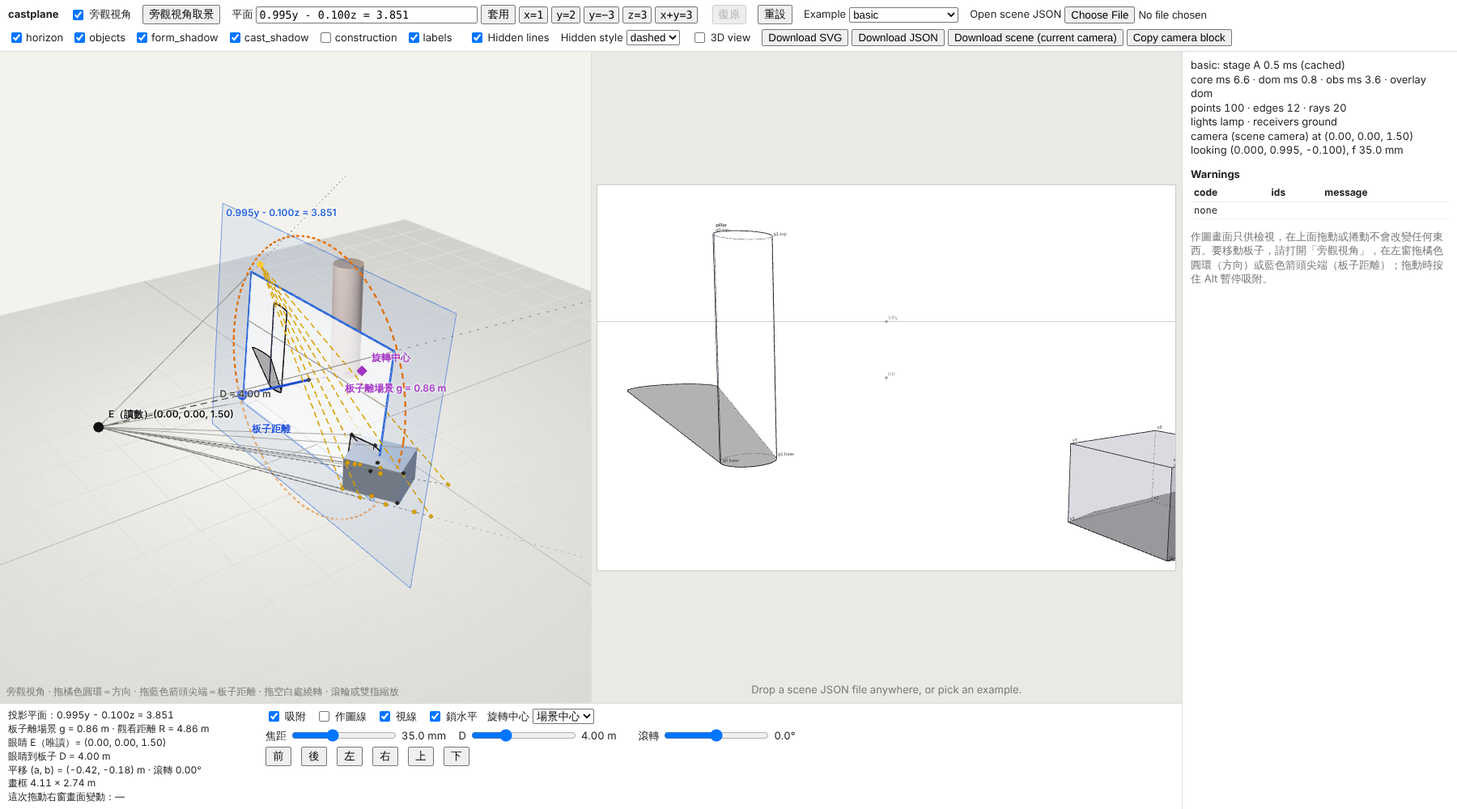
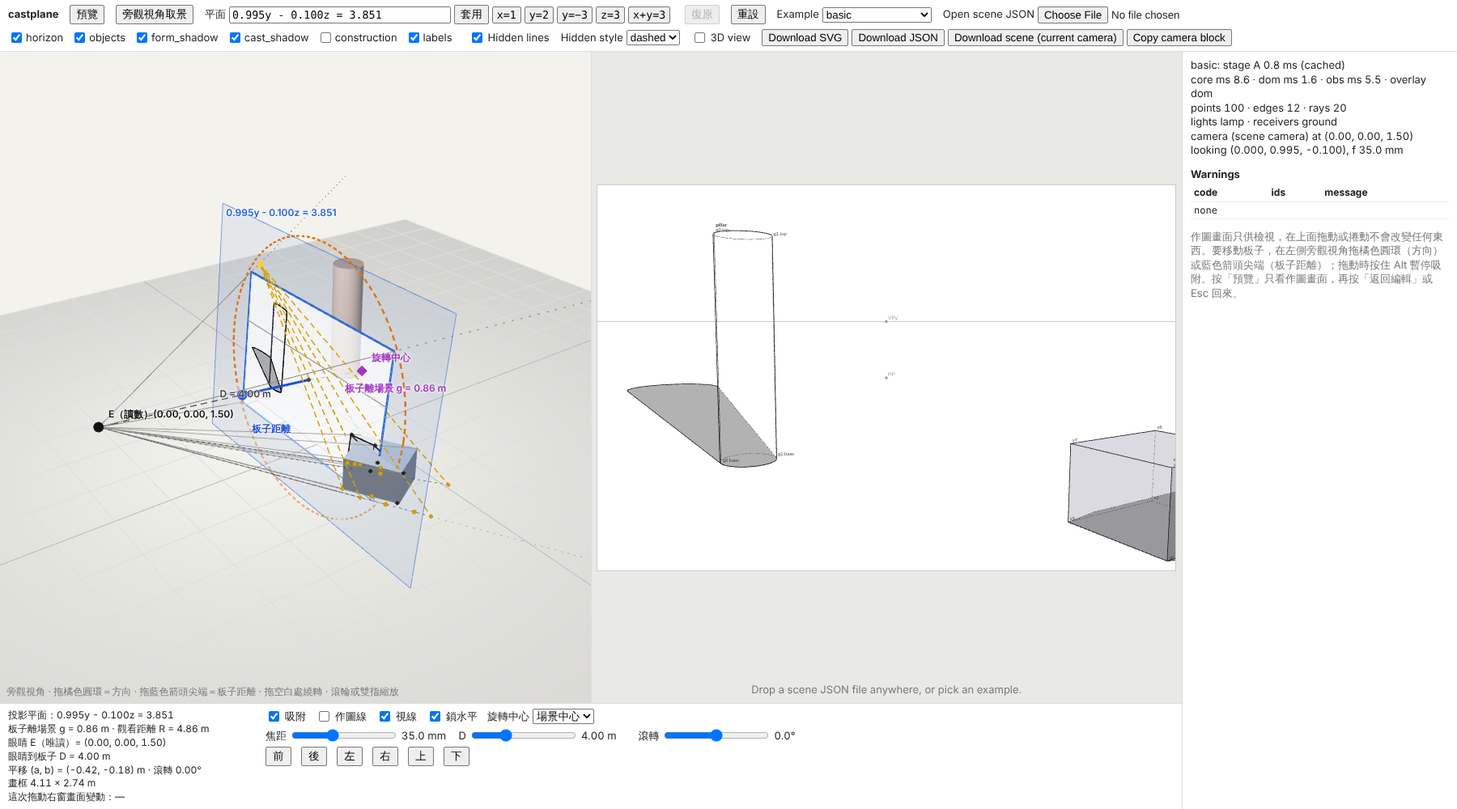
Web: observer pane shown by default; 預覽 button replaces the 旁觀視角 checkbox (D80)
The page always opens in the edit view (observer pane left of the drawing,
stacked on narrow pages). The toolbar toggle 預覽 hides the observer pane,
旁觀視角取景 and obs ms so the drawing takes the full width (the old
switch-off state; drawing and downloads unchanged); 返回編輯 or Esc goes
back. The observer state is no longer stored in localStorage.

Spec v0.2/v0.1, contract notes (§5.6, §5.7), D80, usage docs, smoke
checks and screenshots updated.

Claude-Session: https://claude.ai/code/session_01Y5LMS3wqmpLoV9XZ4UvnBE

diff --git a/web/src/main.ts b/web/src/main.ts
@@ -425,7 +425,6 @@ resize.observe(viewport);
 resize.observe(ui.observerPane);
 
 // ---------------------------------------------------------------------------- observer (M9, contract §5.6)
-const OBSERVER_KEY = "castplane.observer";
 
 /** Update the observer from the drawing camera's record and document (§5.6.2, §5.6.5): board, drawing on the frame
  * (checked layers), vertex rays; frame it when a framing is pending and no drag is running (§5.6.4); then draw it.
@@ -467,14 +466,13 @@ function request_observer_render(): void {
   });
 }
 
+/** Show or hide the observer pane (D80: shown at page start; hidden only while "預覽" is pressed, which is the M9
+ * switch-off state: the drawing pane takes the full width and the outputs are unchanged). */
 function set_observer(on: boolean): void {
   state.obs.on = on;
-  ui.observerOn.checked = on;
-  try {
-    localStorage.setItem(OBSERVER_KEY, on ? "1" : "0");
-  } catch {
-    // storage unavailable: the switch still works for this page
-  }
+  ui.preview.setAttribute("aria-pressed", on ? "false" : "true");
+  ui.preview.textContent = on ? "預覽" : "返回編輯";
+  ui.preview.title = on ? "只看作圖畫面（Esc 返回）" : "回到旁觀視角";
   ui.observerPane.hidden = !on;
   ui.observerControls.hidden = !on;
   ui.panes.classList.toggle("observer-on", on);
@@ -488,7 +486,15 @@ function set_observer(on: boolean): void {
   request_render(); // the resting frame: the observer is built from it (and the drawing pane re-letterboxed)
 }
 
-ui.observerOn.addEventListener("change", () => set_observer(ui.observerOn.checked));
+/** "預覽" (D80): the drawing pane alone; pressed again ("返回編輯") or Esc returns to the edit view. */
+function set_preview(preview: boolean): void {
+  if (preview === !state.obs.on) return;
+  set_observer(!preview);
+}
+ui.preview.addEventListener("click", () => set_preview(state.obs.on));
+window.addEventListener("keydown", (ev) => {
+  if (ev.key === "Escape" && !state.obs.on) set_preview(false);
+});
 ui.observerFrame.addEventListener("click", () => {
   state.obs.needs_framing = true;
   observer_refresh(true);
@@ -627,10 +633,13 @@ function frame(): void {
     svg: svg_blob(state.doc, state.layersChecked, state.sceneName, hidden_style()).text,
     json: json_blob(state.doc, state.sceneName).text,
   },
-  /** M9: switch the observer on / off as the "旁觀視角" checkbox does. */
+  /** D80: press / release "預覽" (the observer pane hidden / shown) as a user would. */
+  set_preview: (preview: boolean) => {
+    if (preview === state.obs.on) ui.preview.click();
+  },
+  /** M9: show / hide the observer pane (`set_preview(!on)`). */
   set_observer: (on: boolean) => {
-    ui.observerOn.checked = on;
-    ui.observerOn.dispatchEvent(new Event("change"));
+    if (on !== state.obs.on) ui.preview.click();
   },
   /** M9: the observer's state (`null` before it was first switched on). */
   get observer() {
@@ -679,13 +688,8 @@ function frame(): void {
   },
 };
 
-let stored_on = false;
-try {
-  stored_on = localStorage.getItem(OBSERVER_KEY) === "1";
-} catch {
-  stored_on = false;
-}
-if (stored_on) set_observer(true);
+// D80: the page always opens in the edit view (observer pane shown); the old "castplane.observer" storage key is ignored
+set_preview(TOGGLES.preview);
 layout();
 const first = EXAMPLES.find((e) => e.name === "basic") ?? EXAMPLES[0];
 if (first !== undefined) {

diff --git a/web/test/plane.test.ts b/web/test/plane.test.ts
@@ -528,3 +528,19 @@ test("the drawing pane is view-only: no pointer, wheel, touch or contextmenu lis
   assert.ok(!/touch-action|cursor/.test(stageRule), stageRule);
   assert.match(css, /^#observer \{[^}]*touch-action: none;/m);
 });
+
+test("the page opens in the edit view: no observer checkbox, a 預覽 toggle button, nothing remembered in storage (D80)", () => {
+  assert.equal(initial_toggles(LAYER_IDS).preview, false, "not previewing at start: the observer pane is shown");
+  const html = readFileSync(resolve(ROOT, "web", "index.html"), "utf-8");
+  assert.ok(!html.includes('id="observer-on"'), "the 旁觀視角 checkbox is gone");
+  assert.match(html, /<button id="preview" type="button" aria-pressed="false"[^>]*>預覽<\/button>/);
+  assert.ok(!/<span class="group" id="observer-controls" hidden>/.test(html), "旁觀視角取景 is shown with the pane");
+  const src = readFileSync(resolve(ROOT, "web", "src", "main.ts"), "utf-8");
+  assert.ok(!/localStorage|OBSERVER_KEY|castplane\.observer"/.test(src.replace(/\/\/.*$/gm, "")), "no stored observer state");
+  assert.match(src, /^set_preview\(TOGGLES\.preview\);$/m, "the start state comes from initial_toggles");
+  // the button toggles; its label and aria-pressed follow; Esc leaves the preview
+  assert.match(src, /ui\.preview\.addEventListener\("click", \(\) => set_preview\(state\.obs\.on\)\)/);
+  assert.match(src, /ui\.preview\.setAttribute\("aria-pressed", on \? "false" : "true"\)/);
+  assert.match(src, /ui\.preview\.textContent = on \? "預覽" : "返回編輯"/);
+  assert.match(src, /ev\.key === "Escape" && !state\.obs\.on\) set_preview\(false\)/);
+});

diff --git a/web/src/toggles.ts b/web/src/toggles.ts
@@ -4,7 +4,8 @@
  * {@link initial_toggles} when the page opens and keep whatever the user sets across scene and example loads; a loaded
  * scene's `output.layers` and `output.hidden_lines` do not drive them (`main.ts` sets the checkboxes once, from
  * {@link initial_toggles}, and never in its scene load). "Download SVG" writes the checked layers; "Download JSON" and
- * "Download scene" follow the "Hidden lines" checkbox.
+ * "Download scene" follow the "Hidden lines" checkbox. The page also opens in the edit view: "預覽" released, the
+ * observer pane shown (D80), whatever an earlier visit chose.
  */
 
 /** The layer that starts unchecked (and its "作圖線" mirror). */
@@ -18,9 +19,12 @@ export interface Toggles {
   hidden_lines: boolean;
   /** "3D view": with it off the three.js canvas is hidden and not rendered. */
   view3d: boolean;
+  /** "預覽" (D80): pressed hides the observer pane and the drawing pane takes the full width. */
+  preview: boolean;
 }
 
-/** The toggles at page start: every layer but `construction` checked, hidden lines on, the 3D view off. */
+/** The toggles at page start: every layer but `construction` checked, hidden lines on, the 3D view off, not previewing
+ * (the observer pane shown). */
 export function initial_toggles(layer_ids: readonly string[]): Toggles {
-  return { layers: new Set(layer_ids.filter((id) => !LAYERS_OFF_AT_START.includes(id))), hidden_lines: true, view3d: false };
+  return { layers: new Set(layer_ids.filter((id) => !LAYERS_OFF_AT_START.includes(id))), hidden_lines: true, view3d: false, preview: false };
 }

diff --git a/web/index.html b/web/index.html
@@ -8,8 +8,8 @@
   <body>
     <header id="toolbar">
       <span class="brand">castplane</span>
-      <label class="group"><input id="observer-on" type="checkbox" /> 旁觀視角</label>
-      <span class="group" id="observer-controls" hidden>
+      <button id="preview" type="button" aria-pressed="false" title="只看作圖畫面（Esc 返回）">預覽</button>
+      <span class="group" id="observer-controls">
         <button id="observer-frame" type="button">旁觀視角取景</button>
       </span>
       <span class="group" id="equation-group">
@@ -89,7 +89,7 @@
         <div id="error" hidden></div>
         <h2>Warnings</h2>
         <table id="warnings"><thead><tr><th>code</th><th>ids</th><th>message</th></tr></thead><tbody></tbody></table>
-        <p class="help">作圖畫面只供檢視，在上面拖動或捲動不會改變任何東西。要移動板子，請打開「旁觀視角」，在左窗拖橘色圓環（方向）或藍色箭頭尖端（板子距離）；拖動時按住 Alt 暫停吸附。</p>
+        <p class="help">作圖畫面只供檢視，在上面拖動或捲動不會改變任何東西。要移動板子，在左側旁觀視角拖橘色圓環（方向）或藍色箭頭尖端（板子距離）；拖動時按住 Alt 暫停吸附。按「預覽」只看作圖畫面，再按「返回編輯」或 Esc 回來。</p>
       </aside>
     </main>
     <script type="module" src="./src/main.ts"></script>

diff --git a/web/src/ui.ts b/web/src/ui.ts
@@ -55,9 +55,9 @@ export interface Controls {
   statusLine: HTMLDivElement;
   errorPanel: HTMLDivElement;
   warningsBody: HTMLTableSectionElement;
-  /** M9 (contract §5.6.3): the observer switch, its pane and its controls. */
+  /** M9 (contract §5.6.3): the observer pane and its controls; the "預覽" button hides them (D80). */
   panes: HTMLDivElement;
-  observerOn: HTMLInputElement;
+  preview: HTMLButtonElement;
   observerControls: HTMLSpanElement;
   observerFrame: HTMLButtonElement;
   observerRays: HTMLInputElement;
@@ -100,7 +100,7 @@ export function controls(): Controls {
     errorPanel: $<HTMLDivElement>("error"),
     warningsBody: $<HTMLTableElement>("warnings").tBodies[0]!,
     panes: $<HTMLDivElement>("panes"),
-    observerOn: $<HTMLInputElement>("observer-on"),
+    preview: $<HTMLButtonElement>("preview"),
     observerControls: $<HTMLSpanElement>("observer-controls"),
     observerFrame: $<HTMLButtonElement>("observer-frame"),
     observerRays: $<HTMLInputElement>("observer-rays"),

diff --git a/web/src/style.css b/web/src/style.css
@@ -35,6 +35,8 @@ body { display: flex; flex-direction: column; }
 /* M9 observer pane (contract §5.6.3): left of the drawing pane, equal width; stacked (observer on top) below 880 px */
 #observer { flex: 1; position: relative; min-width: 0; min-height: 0; overflow: hidden; background: #f3f2ec; touch-action: none; border-right: 1px solid #ddd; }
 #observer[hidden] { display: none; }
+/* D80: "預覽" pressed (the observer pane hidden) */
+#preview[aria-pressed="true"] { background: #2563eb; border-color: #1d4ed8; color: #fff; }
 #observer canvas { position: absolute; inset: 0; width: 100%; height: 100%; display: block; cursor: grab; }
 #observer.on-handle canvas { cursor: pointer; }
 /* label offsets from their anchors and the overlap rule live in observer.ts (`layout_labels`) */

diff --git a/web/README.md b/web/README.md
@@ -23,7 +23,7 @@ Phase 2 (contract §5.4.10, the M4–M6 format): `wall_and_ground` with hidden l
 ![mesh demo](../docs/images/web_ui_mesh_demo.png)
 ![two lights](../docs/images/web_ui_two_lights.png)
 
-M9 (contract §5.6): the observer view, switched on with *旁觀視角*:
+M9 (contract §5.6): the observer view, shown by default (hidden by the *預覽* button, D80):
 
 ![observer view](../docs/images/web_ui_observer.png)
 
@@ -68,11 +68,12 @@ drag):
     natively; `touch-action` is the browser default on `#stage` and `none` only on `#observer`) and does not suppress
     the context menu. A file drop still works anywhere on the page. The former mappings (left drag = ring, wheel or
     pinch = arrow, right drag / Shift drag / two-finger move = pan) are removed.
-  - Observer pane (left, with *旁觀視角*) is where the board is moved: drag the orange dashed ring to orbit (lock-horizontal by default, free roll
+  - Observer pane (left, shown by default) is where the board is moved: drag the orange dashed ring to orbit (lock-horizontal by default, free roll
     with *鎖水平* off), and drag the blue arrow's tip (*板子距離*) to move the board along `f`. Hit radius: 14 px
     for a mouse, 26 px for touch, 0.8× for the ring; the tip wins. The black eye is never a handle. Anywhere else
-    the drag orbits the observer camera; the wheel or a pinch zooms the observer camera. With the switch off no drag or
-    wheel changes the camera: use the sliders, views, equation field, undo and 重設.
+    the drag orbits the observer camera; the wheel or a pinch zooms the observer camera. While previewing (*預覽*)
+    no drag or wheel changes the camera: use the sliders, views, equation field, undo and 重設, or go back with
+    *返回編輯* (or Esc).
   - *吸附* (default on; Alt suspends it): within 5° of an axis the board snaps to it exactly, and an axis-parallel
     board's plane coordinate snaps to 0.1 m while the arrow is dragged.
   - Sliders: focal length (logarithmic, 8–400 mm), `D` (0.5–12 m, the board stays and the eye moves), roll (±180°
@@ -121,10 +122,13 @@ drag):
   `message` of the current document.
 
 - **Observer view** (M9, contract §5.6; `src/observer.ts` pure and unit-tested, `src/observer3d.ts` the three.js
-  pane). The toolbar switch *旁觀視角* (off by default, remembered per browser in `localStorage`) opens a second
-  three.js view left of the drawing pane, at equal width; below 880 px of page width the two panes stack, the
-  observer on top. With the switch off there is only the drawing pane: no second WebGL context is created and nothing is
-  computed for it. The observer shows, from outside, the drawing camera's eye **E** (read-only, with its coordinates),
+  pane). The page always opens in the edit view (D80): a second
+  three.js view is shown left of the drawing pane, at equal width; below 880 px of page width the two panes stack, the
+  observer on top. The toolbar toggle *預覽* (`aria-pressed`) hides the observer pane, its toolbar control *旁觀視角取景*
+  and `obs ms`, and the drawing pane takes the full width: the old "switch off" state, with nothing computed for the
+  observer. While previewing the button reads *返回編輯*; clicking it again or pressing Esc returns to the edit view. The
+  choice is not remembered (`localStorage["castplane.observer"]` is neither read nor written), and the board cannot be
+  dragged while previewing (the drawing pane is view-only, D79). The observer shows, from outside, the drawing camera's eye **E** (read-only, with its coordinates),
   the board (the picture plane at distance `D` in front of the eye: 4 m, or the `picture_plane` distance of the
   scene's camera clamped into 0.5–12 m), the frame on it (the canvas rectangle unprojected with the core's
   `unproject_to_plane`) with the current drawing laid on it 0.012 m towards the eye, the frustum (dotted on to 1.9×),
@@ -140,7 +144,7 @@ drag):
   would fall outside the pane's inner 90 %, as it would in the portrait side-by-side pane); it also frames after a
   scene load, 重設, 復原, a view, an applied equation and a pivot change, never during a drag. In M10 the pane also
   shows the plane-mode handles (the orange ring and the blue arrow, above). The observer draws the receivers see-through, so a frame below
-  the ground stays visible. The status line shows `obs ms` (the observer's own cost per frame) while the switch is on.
+  the ground stays visible. The status line shows `obs ms` (the observer's own cost per frame) in the edit view.
   A scene's own camera (any form) is rendered as it is until the board is first moved (so the document, its warnings
   and the downloads are the CLI's); from then on the rig's `picture_plane` block, with the same picture.
 
@@ -212,7 +216,7 @@ number); its resting DOM frames took 100–169 ms of `innerHTML`.
 ### M9: the observer view on
 
 Same script and container (headless Chromium 141.0.7390.37, SwiftShader): a 30-step drag of the drawing camera per
-scene with the observer switched on. `obs ms` is the observer's update (board, drawing on the frame, vertex rays and
+scene in the edit view (observer shown). `obs ms` is the observer's update (board, drawing on the frame, vertex rays and
 the `renderer.render` call, which returns before the GPU work completes); `total` is `core ms + dom ms + obs ms` of
 the frame. Minimum / median / maximum over the drag frames of one run:
 
@@ -226,7 +230,7 @@ the frame. Minimum / median / maximum over the drag frames of one run:
 | benchmark_100 (recorded, not gated) | 54.3 / 158.8 / 238.1 | 166.8 / 286.2 / 486.2 |
 
 The five examples stay far below the 100 ms frame of contract §5.6.9. `benchmark_100.json` draws ≈ 30 k segments on
-the frame; with the observer off its drag frames are unchanged (table above).
+the frame; in the preview its drag frames are unchanged (table above).
 
 ## Smoke check
 
@@ -253,11 +257,14 @@ The script needs a Playwright installed outside the repository; it is not a depe
   3D view has the ground plane with its grid and the wall as a plate with an outline; `mesh_demo` shows the house
   mesh and the tank; `two_lights` has one helper per light, the per-light construction blocks and umbra pieces at
   rest, none during a drag and again after it. With `--shots DIR` it saves `DIR/web_ui_<name>.png` for these three.
-- M9 (contract §5.6.9): for the five phase-1 examples and the optional scene file the observer is switched on and
-  off: the writer's SVG text, the overlay markup, the SVG / JSON download texts and the camera must be identical with
-  the switch on and off; a 30-step drag of the drawing camera with the switch on records `obs ms` and checks
+- D80: the page opens in the edit view (observer pane shown, no 旁觀視角 checkbox, *預覽* not pressed); *預覽* hides
+  the pane and widens the drawing pane with the drawing and the downloads unchanged, and a second click (*返回編輯*)
+  or Esc returns; a reload opens in the edit view even with the old `castplane.observer` key set to off.
+- M9 (contract §5.6.9): for the five phase-1 examples and the optional scene file the observer pane is hidden and
+  shown (*預覽*): the writer's SVG text, the overlay markup, the SVG / JSON download texts and the camera must be
+  identical either way; a 30-step drag of the drawing camera with the pane shown records `obs ms` and checks
   `core + dom + obs < 100 ms` per frame on the five examples, and that the observer follows the drawing camera; an
-  observer drag and wheel move only the observer; switching off hides the pane, its controls and `obs ms` and restores
+  observer drag and wheel move only the observer; *預覽* hides the pane, its controls and `obs ms` and restores
   the drawing pane's size; a `picture_plane` scene camera loads with the board `y = 2.00`, `D = 4.00 m`; below 880 px
   the panes stack (observer on top), above they sit side by side at equal width; after the large scene's drag the
   `<img>` overlay is not displayed at rest. Review fixes: after each load `E` and the frame corners are inside the
@@ -265,7 +272,7 @@ The script needs a Playwright installed outside the repository; it is not a depe
   camera's document (the expected file's warnings, `camera.picture_plane`) until a drag, the rig's `picture_plane`
   block after it (M10), and the scene's block again after 重設; a frame below the ground is drawn (its bottom edge's
   pixel colour). With `--shots DIR` it also saves `DIR/web_ui_observer.png`.
-- M10 (contract §5.7.13, plane mode, on `basic` with the observer on):
+- M10 (contract §5.7.13, plane mode, on `basic` in the edit view):
   - the ring drag changes `f` and keeps `g`, `D`, `|E − P|`;
   - the arrow tip wins the hit test, and its drag changes `g` only (the eye moves along `f`);
   - the hit test never returns the eye, and a drag on it orbits the observer only;
@@ -279,7 +286,7 @@ The script needs a Playwright installed outside the repository; it is not a depe
   - `x==1` turns the field red and keeps the plane, and the quick button `x=1` applies;
   - undo and 重設 restore `f`, `g`, `up`, the focal length and the sliders;
   - an object click sets the pivot (label `旋轉中心：<id>`);
-  - the drawing is identical with the observer on and off for an edited camera;
+  - the drawing is identical with the observer pane shown and hidden (*預覽*) for an edited camera;
   - Download scene writes the `picture_plane` form and reloads to the same SVG;
   - 900 random rig states render finite numbers;
   - review fixes: a drag held across a scene load leaves

diff --git a/docs/DECISIONS.md b/docs/DECISIONS.md
@@ -498,3 +498,17 @@ v1 的決定：保留目標值不改，`benchmarks/README.md` 記錄實測數字
   3. 平移 (a, b) 不再能手動編輯：只來自載入規則，並在點選物體與一鍵視圖時歸零，其餘操作保留它。D78 對滾輪與焦距、平移與旋轉中心、滾轉與自由滾轉的區別，以及「平移以滾轉前的基底記錄」仍然有效。
   4. 工具列預設：頁面開啟時 horizon、objects、form_shadow、cast_shadow、labels 與 Hidden lines 勾選；construction（右窗下方的「作圖線」勾選框與它同步）與 3D view 不勾選，3D 畫布從第一格起隱藏且不繪製。這些是頁面層級的狀態，載入場景或範例後保持使用者設定的值，不再取場景的 `output.layers`、`output.hidden_lines`（場景檔欄位本身不變，命令列照舊使用）。Hidden style 選單只在 Hidden lines 勾選時可用。「Download SVG」用目前勾選的圖層，「Download JSON」與「Download scene」用目前的 Hidden lines 狀態。旁觀視角開關預設關閉，不變。
 - **理由**：操作板子只留一個地方（左窗與工具列），右窗就成為穩定的結果畫面，看圖、捲頁、點右鍵都不會誤改視角；觸控裝置上右窗也不再搶走捲動。預設直接顯示完成的線稿（物體、地平線、陰影、標籤，被遮住的線依 Hidden style 畫出，預設為虛線），不被作圖線蓋滿；要看作圖過程再勾選 construction。3D view 預設關閉讓畫面乾淨，也省下一個 WebGL 畫面的算圖。勾選狀態屬於使用者的介面偏好，不屬於場景，所以載入另一個場景不該把它改回去。代價：旁觀視角關閉時沒有拖曳可以改相機（只剩滑桿、一鍵視圖與方程式），需要拖曳圓環與箭頭時打開旁觀視角；平移因此沒有手動入口，只能靠載入帶偏移的相機取得。
+- **後續**：第 4 點最後一句「旁觀視角開關預設關閉，不變」，以及本條「代價」中「旁觀視角關閉時沒有拖曳」的前提，已由 D80 取代（旁觀視角預設顯示，開關改為「預覽」按鈕）；其餘仍然有效。
+
+## D80 旁觀視角預設顯示，「旁觀視角」開關改為工具列的「預覽」按鈕（修訂 D79 與 M9 的開關決定；合約 §5.6.0、§5.6.3、§5.6.4 與 §5.6 實作註記）
+
+- **規格**：規格 v0.2 §2.2（編輯畫面與預覽）、§2.1（旁觀視角一列）、§5.9、§7.2 的 M9 一列；修訂 D79 第 4 點最後一句「旁觀視角開關預設關閉，不變」，以及 M9 在合約 §5.6.3、§5.6.4 定下的「開關預設關閉、每個瀏覽器用 `localStorage["castplane.observer"]` 記住」。M9 的開關沒有獨立的 D 編號，它的條文在合約 §5.6。
+- **問題**：D79 讓右窗唯讀，板子只能在左窗（旁觀視角）操作，但旁觀視角是一個預設關閉、還會被瀏覽器記住的勾選框。結果是頁面剛開啟時什麼都拖不動，要先找到並打開一個開關；而關閉的狀態又讓整個頁面沒有任何拖曳入口。「看完成的作圖」其實是暫時的看一眼，不是把一個功能關掉。
+- **決定**：
+  1. 取消「旁觀視角」勾選框。頁面一律以**編輯畫面**開啟：旁觀視角窗格預設顯示，在作圖畫面左側（頁面寬度小於 880 px 時改為上下堆疊，旁觀視角在上），也就是原本開關打開時的版面。
+  2. 工具列新增切換鈕「預覽」（`aria-pressed`）。按下後旁觀視角窗格、它的工具列控制「旁觀視角取景」與狀態列的 `obs ms` 都隱藏，作圖畫面佔滿全寬；這就是原本「開關關閉」的狀態。預覽時按鈕顯示「返回編輯」，再按一次或按 Esc 回到編輯畫面（旁觀視角重新顯示）。
+  3. 預覽時不能拖曳板子（右窗唯讀，D79；把手在旁觀視角裡）；滑桿（焦距、D、滾轉）、六個一鍵視圖、方程式欄位、復原、重設照常可用。
+  4. M9 的「開關關閉＝M7 頁面」恆等式照舊成立，只是改名：預覽時的版面、算圖迴圈與輸出和 M7 頁面相同；同一台相機下，疊層 SVG 與下載的 SVG、JSON 在編輯畫面與預覽之間逐位元相同。
+  5. 不再記憶：頁面每次都從編輯畫面開始，舊的 `castplane.observer` 不讀也不寫（瀏覽器裡殘留的值直接忽略），預覽狀態也不存。
+  6. D79 的其餘部分（右窗唯讀、板子與旁觀相機只在左窗與工具列操作、平移只來自載入規則、工具列預設）不變。核心、文件位元組與一致性測試集都沒有變動。
+- **理由**：D79 之後，旁觀視角就是操作板子的地方，應該預設就在，而不是要使用者去打開的附加功能；「看完成的圖」是暫時的檢視動作，用一個「預覽／返回編輯」的按鈕表達，比一個關掉功能的勾選框貼近用途，而且只有一個控制，不會把頁面留在沒有拖曳入口的狀態。每次從編輯畫面開始，也避免「上次關掉了，這次打開什麼都拖不動」的困惑。預覽保留原本關閉時的畫面與輸出，所以 M9 的位元組恆等驗收和效能路徑（預覽時不做旁觀視角更新、不算 `obs ms`）都可以沿用。代價：頁面開啟就多一個 WebGL 畫面與每格的旁觀視角更新（M9 實測五個範例拖曳每格總計約 4–24 ms，在 100 ms 預算內）；想永遠只看作圖畫面的使用者每次開頁都要按一次「預覽」。

diff --git a/docs/ARCHITECTURE.md b/docs/ARCHITECTURE.md
@@ -5116,6 +5116,31 @@ The observer shows lights as in §5.4.10 (`scene3d`). Nothing in this table is w
   that `E` and the frame corners lie inside the pane after each load, that right and middle drags leave the observer
   still, the three v8 cases before a drag, after one and after "Reset camera", and that a frame below the ground is
   drawn (pixel colour on its bottom edge). Each smoke check fails on a build with its fix disabled.
+- **[decision, implementation] (M9, D80) The observer pane is shown by default; the 旁觀視角 switch is replaced by the
+  預覽 button.** Amends, by reference and with the existing text unchanged: §5.6.0 "Switch-off identity", the first two
+  bullets of §5.6.3 ("default **off**; persisted per viewer in `localStorage`"; "On: ... Off: ..."), the two sentences of
+  §5.6.4 that create the pane "on the first switch-on only" and store the switch state under
+  `localStorage["castplane.observer"]`, the last sentence of the §5.4 M10 / D79 note ("The M9 observer switch keeps its
+  default (off)"), and "The top bar holds the observer switch" in the §5.7 "Controls, readouts and notices" note.
+  (1) **Default.** The "旁觀視角" checkbox no longer exists. The page always opens in the **edit view**: the observer
+  pane is shown from the first frame, left of the drawing pane at equal width, and stacked on top of it below 880 px of
+  page width (the layout the old switch gave when on). The observer is where the board is manipulated (§5.7.9, D79),
+  so it is not an optional extra. (2) **The 預覽 button.** The top bar gets a toggle button "預覽" with `aria-pressed`
+  (`false` in the edit view). While previewing (`aria-pressed="true"`) the observer pane, its toolbar control
+  「旁觀視角取景」 and the `obs ms` status are hidden and the drawing pane takes the full width: this is exactly the old
+  "switch off" state, so no observer update runs (`obs_ms` is `null` in the frame records, as it was with the switch
+  off). The button then reads 「返回編輯」; clicking it again, or pressing Esc, returns to the edit view (observer
+  shown, `obs ms` back). The sliders (focal length, `D`, roll), the six views, the equation field and its quick buttons,
+  復原, 重設, lock-horizontal and the pivot selector work in both views. The board cannot be dragged while previewing,
+  because the drawing pane is view-only (D79, §5.7 note) and the handles live in the observer pane. (3) **Identity.**
+  The "switch-off identity" of §5.6.0 holds with "preview" in place of "switch off": the layout of a previewing page,
+  its render loop and its outputs are those of the §5.4.10 page (as the D79 note reads the identity: layout, render loop
+  and outputs, not input), and for the same drawing camera the SVG overlay markup, the downloaded SVG
+  and the downloaded JSON are byte-identical between the edit view and the preview (the §5.6.8 and §5.6.9 tests keep
+  their content, read with "edit view" for "switch on" and "preview" for "switch off"). (4) **Storage.** Whether the
+  observer is shown is no longer remembered: `localStorage["castplane.observer"]` is neither read nor written (a value
+  left by an earlier page is ignored), the preview state is not stored, and every page start is the edit view. No
+  document byte, warning code or conformance case changes (docs/DECISIONS.md D80).
 
 ### 5.7 M10 — plane mode, board-first (spec-v0.2 §1, §4, §5, §6, §7)
 
@@ -5640,3 +5665,7 @@ through the port's `resolve_picture_plane` and draws its readout camera through 
   check of the new row. (7) **D78** keeps its distinctions; its mapping "右窗左拖＝圓環、滾輪＝箭頭、右拖＝平移" is
   withdrawn (docs/DECISIONS.md D79 amends it by reference). §5.4.10's input mapping for the drawing pane was already
   superseded by §5.7.9, and now has no replacement on that pane.
+- **[decision, implementation] (M10, D80) Amendment to the D79 note above.** In (2), "With the observer switch off no
+  drag or wheel can change the camera" is read as "while previewing (§5.6, D80 note)"; the 旁觀視角 switch is gone and
+  the observer is shown by default, so the drag and wheel on the board are available in the edit view without any
+  switch. The rest of the D79 note stands.

diff --git a/CHANGELOG.md b/CHANGELOG.md
@@ -10,6 +10,7 @@
 - m10-web: the drawing camera is the board-first rig (`web/src/plane.ts` session + `rig.ts`): the observer pane gets the orange ring (orbit, 5° snapping, Alt suspends it) and the blue arrow (board distance g, 0.1 m grid) with hit radii 14 / 26 px and the eye never a handle; the right pane maps left drag to the ring, the wheel / pinch to the arrow (R, not focal), right / Shift / two-finger drags to pan; focal, D and roll sliders, pivot (scene centre or a clicked object), lock-horizontal, six views, the plane-equation field with quick buttons, 50-step undo, reset, readouts with the picture delta and notices; a scene's own camera is rendered until the board first moves, then the rig's `picture_plane` block (also what Download scene writes); `web/test/plane.test.ts` and the plane-mode checks of `web/scripts/smoke.mjs`; `docs/images/web_ui_plane_mode.png`.
 - m10-web (review fixes): a wheel inside a held drag is ignored (one gesture stays one undo step); a scene load drops a held right-pane drag so it never moves the new scene; switching the pivot selector to 點選物體 without a pick keeps the pan; objects are picked by a `userData` tag, so ids with `:` work; the 作圖線 checkbox no longer shares the id `construction` with the SVG layer; blurring a rejected equation clears its error; a slider dragged into its clamped range shows the clamped value at release; the handle hover cursor shows on the canvas; observer labels no longer overlap (`layout_labels`).
 - m10-web (D79, spec-v0.2 §2.1, §5.9): the drawing pane is read-only: no drag (any button, Shift, touch, pen) and no wheel on `#stage` does anything (no `preventDefault`, native page scroll, `touch-action` default, context menu no longer suppressed), so the board is manipulated in the observer pane and the toolbar only and the pan `(a, b)` comes from the load rule alone; toolbar defaults are page-level UI state: horizon, objects, form_shadow, cast_shadow, labels and Hidden lines checked, construction and 3D view unchecked (3D canvas hidden and not rendered from the first frame), kept across scene loads and no longer taken from `output.layers` / `output.hidden_lines`. Contract §5.4 and §5.7 implementation notes, DECISIONS D79; no output byte or conformance case changes.
+- m10-web (D80, spec-v0.2 §2.2): the observer pane is shown by default and the "旁觀視角" checkbox is replaced by a toolbar toggle "預覽" (`aria-pressed`): the page always opens in the edit view (observer left of the drawing pane, stacked on top below 880 px); 預覽 hides the observer pane, 旁觀視角取景 and `obs ms` and gives the drawing pane the full width (the old switch-off state, so the overlay SVG and the downloads stay byte-identical between the two views), the button then reads 返回編輯 and a second click or Esc goes back; the choice is no longer remembered (`localStorage["castplane.observer"]` is neither read nor written). Contract §5.6 implementation notes (amends §5.6.0, §5.6.3, §5.6.4, the §5.4 D79 note) and a one-line amendment to the §5.7 D79 note, DECISIONS D80; no output byte or conformance case changes.
 
 ## Unreleased — M10 core: `picture_plane` camera form (spec-v0.2 §4.1, §4.3)
 
